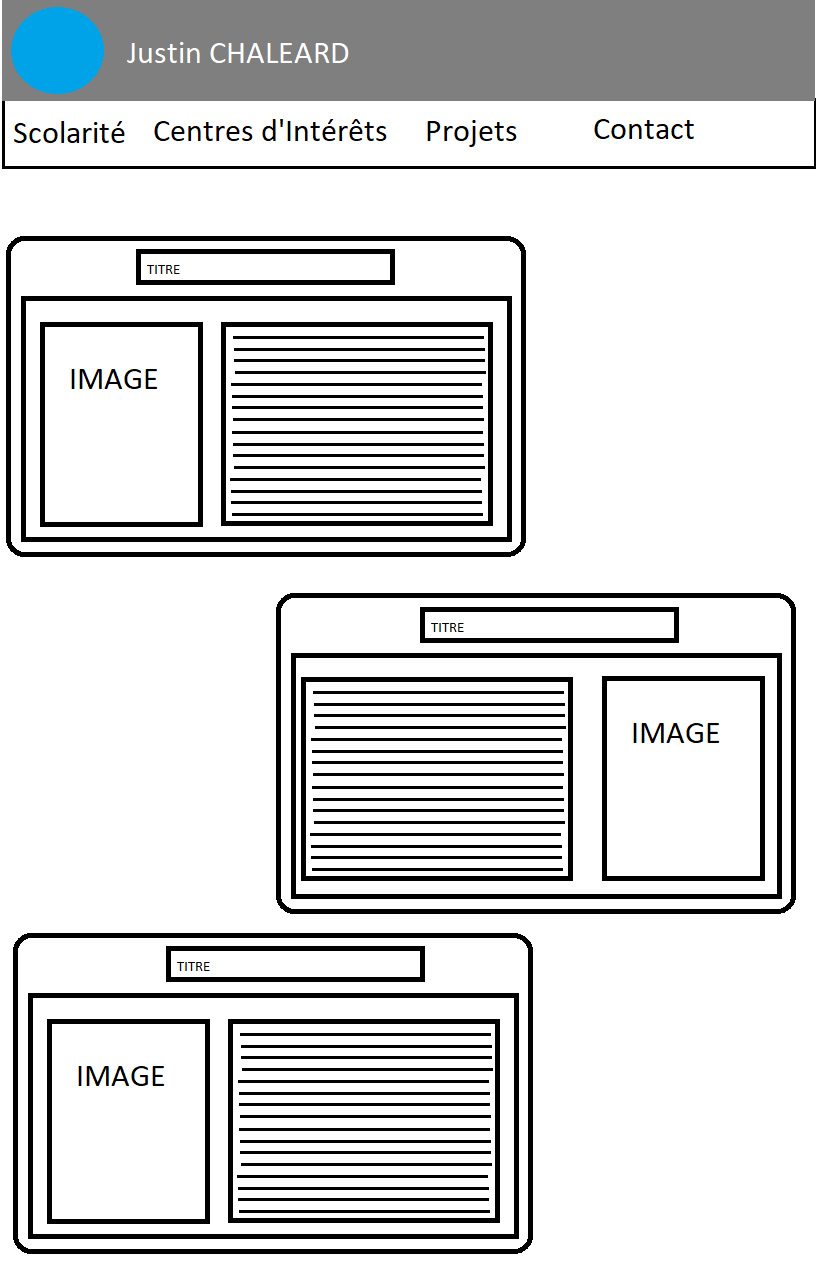
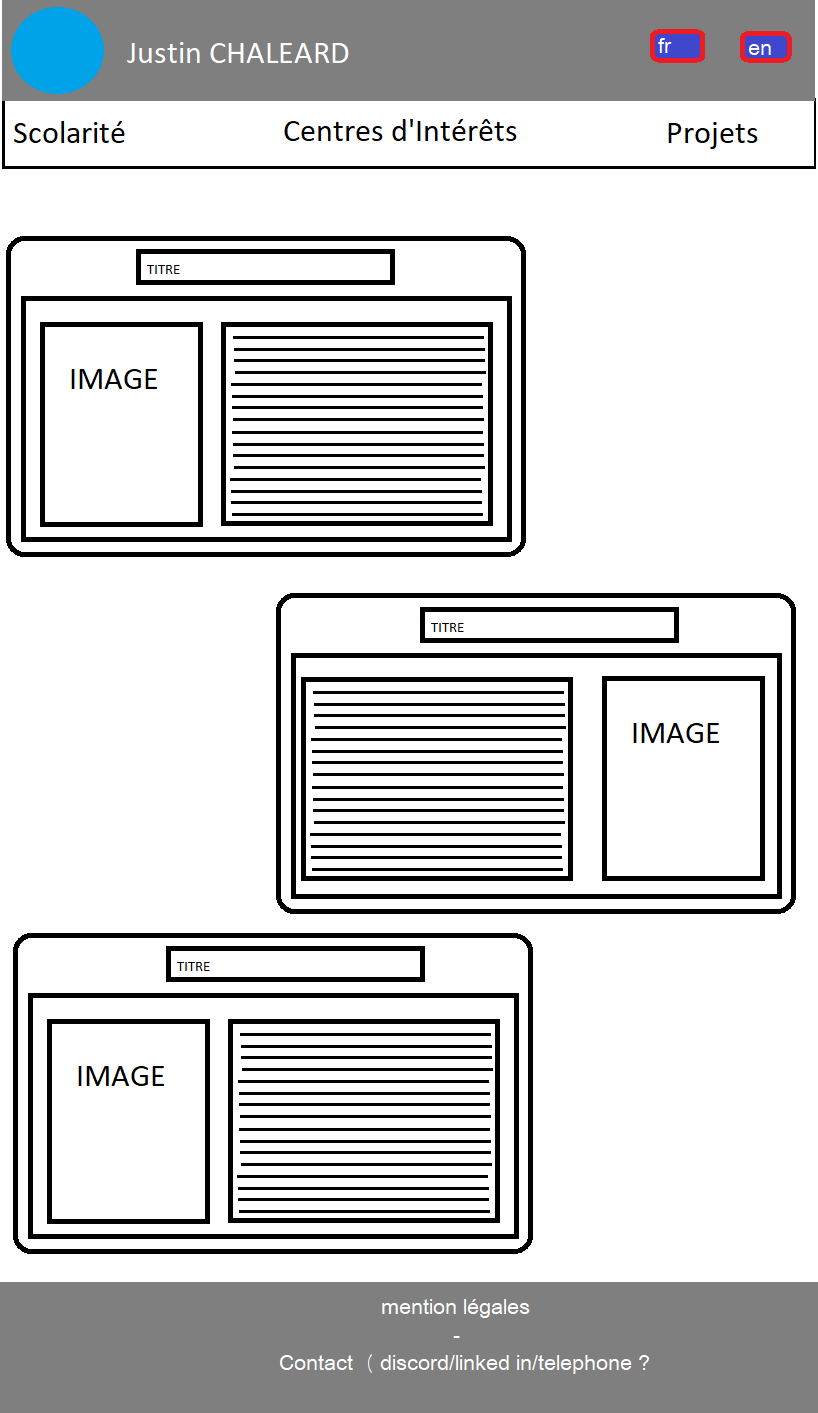
menu fini/readme mis a jour/pattern mis ajour

Changed region(s): [[0.0, 0.0, 1.0, 1.0]]

diff --git a/en_/interest.html b/en_/interest.html
@@ -2,37 +2,36 @@
 <html>
 
   <head>
-    <link rel="icon" href="/picture/logo/logo_page.png">
     <link rel="stylesheet" href="../sae.css" type="text/css">
-    <title>◄ J.CHALÉARD ►</title>
+    <title>Justin CHALÉARD</title>
   </head>
   
   <body>
     <img id=fond src="/picture/bg/abstract.jpg">
     <div id="conteneur">
       <div class="menu">
-        <img class="logo" src="/picture/logo/logo_web.png" alt="Le logo de du site">
+        <img class="logo" src="/picture/logo/tete.png" alt="My face">
         <p class="top">Justin CHALÉARD</p>
-        <a href="/fr_/interet.html"><img src="/picture/flag/fr_flag.png"></a>
+        <a href="/fr_/scolaire.html"><img src="/picture/flag/fr_flag.png"></a>
         <a href="#"><img src="/picture/flag/us_flag.png"></a>
       </div>
       <nav>
         <ul>
-          <li class="deroulant"><a href="/en_/school.html">Ma scolarité &ensp;</a>
+          <li class="deroulant"><a href="/en_/school.html">My Scolarity &ensp;</a>
             <ul class="sous">
               <li><a href="/en_/school.html#college">Collège</a></li>
               <li><a href="/en_/school.html#lycee">Lycée</a></li>
               <li><a href="/en_/school.html#etude">Étude Supérieure</a></li>
             </ul>
           </li>
-          <li class="deroulant"><a href="/en_/interest.html">Centres d'Intérêt &ensp;</a>
+          <li class="deroulant"><a href="/en_/interest.html">Hobbies &ensp;</a>
             <ul class="sous">
               <li><a href="/en_/interest.html#dev">Développement</a></li>
               <li><a href="/en_/interest.html#cyber">Cybersécurité</a></li>
               <li><a href="/en_/interest.html#jeux">Jeux-Vidéo</a></li>
             </ul>
           </li>
-          <li><a href="/en_/project.html">Mes Projets</a></li>
+          <li><a href="/en_/project.html">My Projects</a></li>
         </ul>
       </nav>
     <article id="dev">

diff --git a/en_/project.html b/en_/project.html
@@ -2,37 +2,36 @@
 <html>
 
   <head>
-    <link rel="icon" href="/picture/logo/logo_page.png">
     <link rel="stylesheet" href="../sae.css" type="text/css">
-    <title>◄ J.CHALÉARD ►</title>
+    <title>Justin CHALÉARD</title>
   </head>
   
   <body>
     <img id=fond src="/picture/bg/abstract.jpg">
     <div id="conteneur">
       <div class="menu">
-        <img class="logo" src="/picture/logo/logo_web.png" alt="Le logo de du site">
+        <img class="logo" src="/picture/logo/tete.png" alt="My face">
         <p class="top">Justin CHALÉARD</p>
-        <a href="/fr_/projets.html"><img src="/picture/flag/fr_flag.png"></a>
+        <a href="/fr_/scolaire.html"><img src="/picture/flag/fr_flag.png"></a>
         <a href="#"><img src="/picture/flag/us_flag.png"></a>
       </div>
       <nav>
         <ul>
-          <li class="deroulant"><a href="/en_/school.html">Ma scolarité &ensp;</a>
+          <li class="deroulant"><a href="/en_/school.html">My Scolarity &ensp;</a>
             <ul class="sous">
               <li><a href="/en_/school.html#college">Collège</a></li>
               <li><a href="/en_/school.html#lycee">Lycée</a></li>
               <li><a href="/en_/school.html#etude">Étude Supérieure</a></li>
             </ul>
           </li>
-          <li class="deroulant"><a href="/en_/interest.html">Centres d'Intérêt &ensp;</a>
+          <li class="deroulant"><a href="/en_/interest.html">Hobbies &ensp;</a>
             <ul class="sous">
               <li><a href="/en_/interest.html#dev">Développement</a></li>
               <li><a href="/en_/interest.html#cyber">Cybersécurité</a></li>
               <li><a href="/en_/interest.html#jeux">Jeux-Vidéo</a></li>
             </ul>
           </li>
-          <li><a href="/en_/project.html">Mes Projets</a></li>
+          <li><a href="/en_/project.html">My Projects</a></li>
         </ul>
       </nav>
     <br>

diff --git a/en_/school.html b/en_/school.html
@@ -2,37 +2,36 @@
 <html>
 
 <head>
-  <link rel="icon" href="/picture/logo/logo_page.png">
   <link rel="stylesheet" href="../sae.css" type="text/css">
-  <title>◄ J.CHALÉARD ►</title>
+  <title>Justin CHALÉARD</title>
 </head>
 
 <body>
   <img id=fond src="/picture/bg/abstract.jpg">
   <div id="conteneur">
     <div class="menu">
-      <img class="logo" src="/picture/logo/logo_web.png" alt="Le logo de du site">
+      <img class="logo" src="/picture/logo/tete.png" alt="My face">
       <p class="top">Justin CHALÉARD</p>
       <a href="/fr_/scolaire.html"><img src="/picture/flag/fr_flag.png"></a>
       <a href="#"><img src="/picture/flag/us_flag.png"></a>
     </div>
     <nav>
       <ul>
-        <li class="deroulant"><a href="/en_/school.html">Ma scolarité &ensp;</a>
+        <li class="deroulant"><a href="/en_/school.html">My Scolarity &ensp;</a>
           <ul class="sous">
             <li><a href="/en_/school.html#college">Collège</a></li>
             <li><a href="/en_/school.html#lycee">Lycée</a></li>
             <li><a href="/en_/school.html#etude">Étude Supérieure</a></li>
           </ul>
         </li>
-        <li class="deroulant"><a href="/en_/interest.html">Centres d'Intérêt &ensp;</a>
+        <li class="deroulant"><a href="/en_/interest.html">Hobbies &ensp;</a>
           <ul class="sous">
             <li><a href="/en_/interest.html#dev">Développement</a></li>
             <li><a href="/en_/interest.html#cyber">Cybersécurité</a></li>
             <li><a href="/en_/interest.html#jeux">Jeux-Vidéo</a></li>
           </ul>
         </li>
-        <li><a href="/en_/project.html">Mes Projets</a></li>
+        <li><a href="/en_/project.html">My Projects</a></li>
       </ul>
     </nav>
     <article id="college">

diff --git a/sae.css b/sae.css
@@ -18,30 +18,39 @@ body {
     background-color: rgb(65, 67, 90);
     width:100%;
     display:flex;
+    flex-wrap: row nowrap;
 }
 
 .top {
     color: white;
-    font-size:150%;
+    font-size:180%;
     font-family: 'Sulphur Point', sans-serif;
+    align-self:center;
+    margin-right: auto;
 }
 
 .logo {
-    width: 5%;
+    width: 4%;
+    margin:0.5% 1% 0.5% 0.5%;
+}
+
+.menu>a{
+    min-width:0;
+    min-height:0;
+    align-self:center;
+    width:3%;
+    margin-right: 1%;
 }
 
 .menu>a img{
     border-radius: 8px;
-    min-height: 0;
-    min-width: 0;
+    width:100%
 }
 
 .menu>a>img:hover{
     border-style: solid;
     border-width: 2px;
     border-color: white;
-    min-height: 0;
-    min-width: 0;
 }
 
 * {
@@ -64,7 +73,7 @@ nav ul {
 
 nav ul li {
     float: left;
-    width: 33%;
+    width: 33.33%;
     text-align: center;
     position: relative;
 }

diff --git a/fr_/interet.html b/fr_/interet.html
@@ -2,19 +2,18 @@
 <html>
 
   <head>
-    <link rel="icon" href="/picture/logo/logo_page.png">
     <link rel="stylesheet" href="../sae.css" type="text/css">
-    <title>◄ J.CHALÉARD ►</title>
+    <title>Justin CHALÉARD</title>
   </head>
   
   <body>
     <img id=fond src="/picture/bg/abstract.jpg">
     <div id="conteneur">
       <div class="menu">
-        <img class="logo" src="/picture/logo/logo_web.png" alt="Le logo de du site">
+        <img class="logo" src="/picture/logo/tete.png" alt="Mon visage">
         <p class="top">Justin CHALÉARD</p>
         <a href="#"><img src="/picture/flag/fr_flag.png"></a>
-        <a href="/en_/interest.html"><img src="/picture/flag/us_flag.png"></a>
+        <a href="/en_/school.html"><img src="/picture/flag/us_flag.png"></a>
       </div>
       <nav>
         <ul>

diff --git a/fr_/projets.html b/fr_/projets.html
@@ -2,19 +2,18 @@
 <html>
 
   <head>
-    <link rel="icon" href="/picture/logo/logo_page.png">
     <link rel="stylesheet" href="../sae.css" type="text/css">
-    <title>◄ J.CHALÉARD ►</title>
+    <title>Justin CHALÉARD</title>
   </head>
   
   <body>
     <img id=fond src="/picture/bg/abstract.jpg">
     <div id="conteneur">
       <div class="menu">
-        <img class="logo" src="/picture/logo/logo_web.png" alt="Le logo de du site">
+        <img class="logo" src="/picture/logo/tete.png" alt="Mon visage">
         <p class="top">Justin CHALÉARD</p>
         <a href="#"><img src="/picture/flag/fr_flag.png"></a>
-        <a href="/en_/project.html"><img src="/picture/flag/us_flag.png"></a>
+        <a href="/en_/school.html"><img src="/picture/flag/us_flag.png"></a>
       </div>
       <nav>
         <ul>

diff --git a/fr_/scolaire.html b/fr_/scolaire.html
@@ -2,16 +2,15 @@
 <html>
 
 <head>
-  <link rel="icon" href="/picture/logo/logo_page.png">
   <link rel="stylesheet" href="../sae.css" type="text/css">
-  <title>◄ J.CHALÉARD ►</title>
+  <title>Justin CHALÉARD</title>
 </head>
 
 <body>
   <img id=fond src="/picture/bg/abstract.jpg">
   <div id="conteneur">
     <div class="menu">
-      <img class="logo" src="/picture/logo/logo_web.png" alt="Le logo de du site">
+      <img class="logo" src="/picture/logo/tete.png" alt="Mon visage">
       <p class="top">Justin CHALÉARD</p>
       <a href="#"><img src="/picture/flag/fr_flag.png"></a>
       <a href="/en_/school.html"><img src="/picture/flag/us_flag.png"></a>

diff --git a/README.md b/README.md
@@ -3,6 +3,7 @@
 
  A faire:
 
--Corriger le placement des boutons de langues pour les differents affichages
--Faire le patron du contenu des articles des différentes pages
--Corriger 'affichage de la barre de deplacement latéral en bas de la page
+-Faire le contenu de chaque page / le traduire ensuite
+-Corriger l'affichage de la barre de deplacement latéral en bas de la page
+-Faire le pied de page (avec contact discord/linked in/mail/telephone ?)
+-Mettre mention legales (code html/css libre mais enlever les images du repo public)
